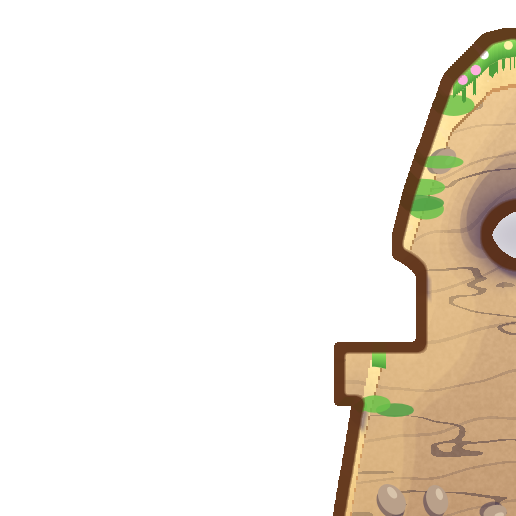
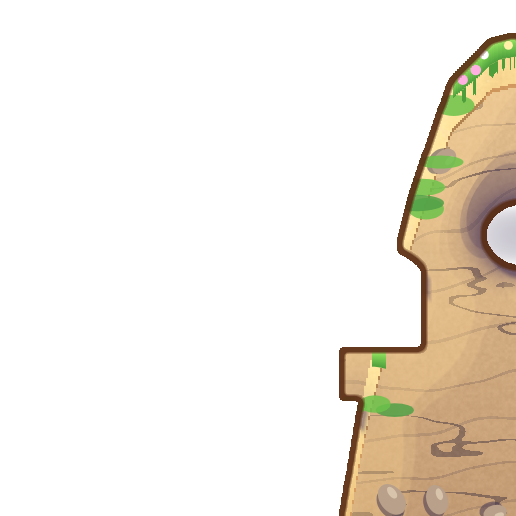
Fase 2 (Mappa): arte della Cala v3 rifinita nel gioco, Prologo con le sue tessere HD
- tessere HD con lo sbordo di 3 px del quadro (1,5 di mondo) invece di 8: lo shader mostra il quadro anche fuori
  dalla maschera, e il disegno si vedeva 4,5 px più grande della forma (piedi dei pirati affondati nell'erba);
  scripts/mappe/guida-sagoma.py lo misura: ora 2 px, limite 3;
- medio.webp: gli scogli alti tagliati dritti in cima alla striscia facevano una riga orizzontale dietro l'isola;
  scripts/mappe/sfuma-medio.py dà loro una cima irregolare che sfuma;
- Prologo v3: arte 'cala-pappagallo-v3' e arteHd 'hd-prologo' (DatiMappaFatta.arteHd, passato da mappaFatta);
  scena-battaglia passa mappa.arteHd a TerrenoHd.carica (prima caricava sempre hd/).

Claude-Session: https://claude.ai/code/session_01JsJehBADe4vUHpeezfCpuZ

diff --git a/scripts/mappe/costruisci-v3.ts b/scripts/mappe/costruisci-v3.ts
@@ -189,7 +189,9 @@ const intestazione = (script: string) => `// GENERATO da scripts/mappe/${script}
   }
   console.log(`${ID}:`, JSON.stringify({ spawn, appigli: appigli.length, nemicoPiuVicino: Math.round(Math.min(...spawn[0].flatMap((p) => spawn[1].map((n) => Math.hypot(n.x - p.x, n.y - p.y))))) }));
   writeFileSync(`src/battaglia/mappe/${ID}.dati.ts`, `${intestazione('costruisci-v3.ts')}export const DATI: DatiMappaFatta = ${JSON.stringify({
-    id: ID, nome: 'Cala Pappagallo (Prologo)', bioma: 'isola', mare: MARE, w: W, h: H, arte: conArte ? ID : undefined,
+    // arte: la cartella della mappa di battaglia, con le sue tessere HD solo dove la sagoma cambia (hd-prologo)
+    id: ID, nome: 'Cala Pappagallo (Prologo)', bioma: 'isola', mare: MARE, w: W, h: H,
+    arte: conArte ? 'cala-pappagallo-v3' : undefined, arteHd: conArte ? 'hd-prologo' : undefined,
     copione: true, spawn, barili: [], appigli, segnaposti, decorazioni: deco, sostegni: SOSTEGNI, strutture: perIDati(strutture), maschera: codificaMaschera(m),
   }, null, 1)};\n`);
   scriviMateriali(ID, m, tag, pezzo);

diff --git a/tests/mappe/cala-v3.test.ts b/tests/mappe/cala-v3.test.ts
@@ -145,6 +145,9 @@ describe('Cala Pappagallo v3', () => {
       expect(c >= 0 && c < 8 && r >= 0 && r < 4, n).toBe(true);
       expect(existsSync(`${cartella}/hd/${n}.webp`), n).toBe(true);
     }
+    // il Prologo usa la cartella della mappa di battaglia, con le sue tessere (Render legge arteHd)
+    expect([mappaFatta(BASE)!.arte, mappaFatta(BASE)!.arteHd]).toEqual(['cala-pappagallo-v3', undefined]);
+    expect([mappaFatta(PROLOGO)!.arte, mappaFatta(PROLOGO)!.arteHd]).toEqual(['cala-pappagallo-v3', 'hd-prologo']);
     const pr = JSON.parse(readFileSync(`${cartella}/hd-prologo/indice.json`, 'utf8'));
     expect(pr.base).toBe('hd');
     expect(pr.tessere.length).toBeLessThan(hd.tessere.length);

diff --git a/src/battaglia/mappe/index.ts b/src/battaglia/mappe/index.ts
@@ -39,6 +39,7 @@ export function mappaFatta(id: string, r?: Pick<RichiestaMappa, 'bioma' | 'varia
     barili: d.barili.map((p) => ({ ...p })),
     ...(d.appigli ? { appigli: d.appigli.map((a) => ({ ...a })) } : {}),
     arte: d.arte,
+    ...(d.arteHd ? { arteHd: d.arteHd } : {}),
     ...(d.sostegni ? { sostegni: d.sostegni.map((r) => ({ ...r })) } : {}),
     ...(d.strutture ? { strutture: d.strutture.map((st) => ({ ...st, ...(st.ancoraggi ? { ancoraggi: [{ ...st.ancoraggi[0] }, { ...st.ancoraggi[1] }] as [Rettangolo, Rettangolo] } : {}) })) } : {}),
   };

diff --git a/src/battaglia/render/scena-battaglia.ts b/src/battaglia/render/scena-battaglia.ts
@@ -238,7 +238,7 @@ export class ScenaBattaglia {
     if (mappa.arte) {
       // terreno HD: si carica in parallelo agli sfondi; finché non arriva resta il terreno dipinto sulla CPU
       this.cambiHd = [];
-      void TerrenoHd.carica(mappa.arte, s.terreno, this.terreno.maschera0, renderer).then((hd) => {
+      void TerrenoHd.carica(mappa.arte, s.terreno, this.terreno.maschera0, renderer, mappa.arteHd ?? 'hd').then((hd) => {
         const cambi = this.cambiHd ?? [];
         this.cambiHd = null;
         if (!hd) return;

diff --git a/src/battaglia/mappe/tipi.ts b/src/battaglia/mappe/tipi.ts
@@ -10,6 +10,8 @@ export interface DatiMappaFatta {
   mare: number;
   /** cartella della grafica in public/assets/mappe/ (assente = terreno dipinto con i colori dei materiali) */
   arte?: string;
+  /** Fase 2: sottocartella delle tessere HD dentro `arte` (assente = 'hd'; il Prologo della Cala v3 usa 'hd-prologo') */
+  arteHd?: string;
   /** lato 0 a sinistra, lato 1 a destra; ogni lato dal più interno al più esterno */
   spawn: [Punto[], Punto[]];
   barili: Punto[];

diff --git a/src/battaglia/mappe/cala-pappagallo-v3-prologo.dati.ts b/src/battaglia/mappe/cala-pappagallo-v3-prologo.dati.ts
@@ -8,6 +8,8 @@ export const DATI: DatiMappaFatta = {
  "mare": 950,
  "w": 2048,
  "h": 1024,
+ "arte": "cala-pappagallo-v3",
+ "arteHd": "hd-prologo",
  "copione": true,
  "spawn": [
   [

diff --git a/scripts/mappe/guida-sagoma.py b/scripts/mappe/guida-sagoma.py
@@ -1,0 +1,41 @@
+"""Guida di sagoma (Fase 2): quanto il terreno HD si vede più grande della maschera che si colpisce.
+
+    python3 scripts/mappe/guida-sagoma.py <materiali.png della mappa> <cartella hd> [px di mondo, predefinito 3]
+
+Rimonta le tessere, prende i pixel visibili (alfa >= 128, la parete delle grotte ad alfa 110 non conta) e misura la
+distanza dalla maschera (canale alfa della PNG dei materiali, ingrandita a 2x). Esce con errore se un pixel visibile
+sta oltre il limite. Il contrario (maschera senza disegno) lo controlla già costruisci-v3.ts sul quadro.
+"""
+import json, os, sys
+import numpy as np
+from PIL import Image
+
+materiali, cartella = sys.argv[1], sys.argv[2]
+limite = float(sys.argv[3]) if len(sys.argv) > 3 else 3
+m = np.asarray(Image.open(materiali).convert('RGBA'))[..., 3] >= 128
+m2 = np.repeat(np.repeat(m, 2, 0), 2, 1)
+indice = json.load(open(os.path.join(cartella, 'indice.json')))
+lato, bordo = indice['lato'], indice['bordo']
+vis = np.zeros(m2.shape, bool)
+nomi = list(indice['tessere'])
+if indice.get('base'):
+    base = os.path.join(os.path.dirname(cartella.rstrip('/')), indice['base'])
+    nomi = [(os.path.join(base, n)) for n in json.load(open(os.path.join(base, 'indice.json')))['tessere'] if n not in nomi] + [os.path.join(cartella, n) for n in nomi]
+else:
+    nomi = [os.path.join(cartella, n) for n in nomi]
+for f in nomi:
+    c, r = map(int, os.path.basename(f)[2:].split('-'))
+    a = np.asarray(Image.open(f + '.webp').convert('RGBA'))[bordo:bordo + lato, bordo:bordo + lato, 3]
+    vis[r * lato:(r + 1) * lato, c * lato:(c + 1) * lato] = a >= 128
+# distanza (in px HD, a passi di 8 vicini) di ogni pixel visibile dalla maschera
+dil, passi, fuori = m2.copy(), 0, vis & ~m2
+peggio = 0
+while fuori.any() and passi < 40:
+    passi += 1
+    p = np.pad(dil, 1)
+    dil = dil | p[:-2, 1:-1] | p[2:, 1:-1] | p[1:-1, :-2] | p[1:-1, 2:] | p[:-2, :-2] | p[:-2, 2:] | p[2:, :-2] | p[2:, 2:]
+    if (fuori & dil).any(): peggio = passi
+    fuori = fuori & ~dil
+print(f'{cartella}: il disegno sborda al massimo {peggio / 2} px di mondo oltre la maschera (limite {limite})')
+if peggio / 2 > limite or fuori.any():
+    sys.exit(1)

diff --git a/scripts/mappe/sfuma-medio.py b/scripts/mappe/sfuma-medio.py
@@ -1,0 +1,37 @@
+"""Toglie il taglio dritto in cima alla striscia `medio.webp` (scogli alti che toccano il bordo dell'immagine).
+
+    python3 scripts/mappe/sfuma-medio.py public/assets/mappe/<id>/medio.webp
+
+Nelle colonne dove lo scoglio arriva alle prime 12 righe (più 24 px attorno) la cima diventa irregolare e sfuma in
+30 px: nel gioco la striscia non mostra più una riga orizzontale dove finisce. Il resto della striscia non cambia.
+"""
+import math
+import sys
+
+from PIL import Image
+
+f = sys.argv[1]
+im = Image.open(f).convert('RGBA')
+w, h = im.size
+px = im.load()
+alti = [any(px[x, y][3] > 40 for y in range(0, 12)) for x in range(w)]
+# colonne vicine (±24 px, con il giro: la striscia si ripete) a uno scoglio tagliato
+vicino = [any(alti[(x + d) % w] for d in range(-24, 25, 4)) for x in range(w)]
+cambiati = 0
+for x in range(w):
+    if not vicino[x]:
+        continue
+    # cima irregolare: 27-57 px sotto il bordo, due onde lente (periodo multiplo della larghezza: la striscia si ripete)
+    t = 42 + 10 * math.sin(2 * math.pi * x * 7 / w) + 5 * math.sin(2 * math.pi * x * 23 / w + 1.3)
+    for y in range(0, min(h, int(t) + 1)):
+        r, g, b, a = px[x, y]
+        if a == 0:
+            continue
+        k = max(0.0, min(1.0, (y - t) / 30 + 1))
+        k = k * k * (3 - 2 * k)
+        na = int(round(a * k))
+        if na != a:
+            px[x, y] = (r, g, b, na) if na else (0, 0, 0, 0)
+            cambiati += 1
+im.save(f, lossless=True, method=6)
+print(f, 'colonne sfumate', sum(vicino), 'pixel cambiati', cambiati)

diff --git a/scripts/mappe/tessere-hd.py b/scripts/mappe/tessere-hd.py
@@ -7,8 +7,11 @@
 Scrive public/assets/mappe/<id>/hd/t-<colonna>-<riga>.webp e hd/indice.json:
 - 8x4 tessere, contenuto 512x512 con 2 px di margine per lato (file 516x516, contenuto da (2,2)); sul bordo del
   mondo si ripete l'ultimo pixel;
-- l'arte sborda: oltre la sagoma il colore del pieno vicino si allarga, ad alfa 255, per 8 px del quadro HD
-  (4 px di mondo); più in là resta il quadro com'è (trasparente, o la parete in fondo alle grotte ad alfa 110);
+- l'arte sborda: oltre la sagoma il colore del pieno vicino si allarga, ad alfa 255, per 3 px del quadro HD
+  (1,5 px di mondo: copre il bordo liscio della maschera filtrata nello shader); più in là resta il quadro com'è
+  (trasparente, o la parete in fondo alle grotte ad alfa 110). Lo shader mostra il quadro anche fuori dalla
+  maschera, quindi lo sbordo è quanto il disegno si vede più grande della forma che si colpisce: Fase 2, al
+  massimo 3 px di mondo (con 8 px HD erano 4, e i piedi dei pirati sembravano affondare nell'erba);
 - WebP senza perdita; nell'indice solo le tessere non vuote.
 Con la variante (per esempio il Prologo) scrive in public/assets/mappe/<id>/<cartella-variante>/ solo le tessere
 che cambiano rispetto alla mappa base, anche quelle che nella variante diventano vuote (file trasparente), e il suo
@@ -19,7 +22,7 @@ import json, os, sys
 import numpy as np
 from PIL import Image
 
-W, H, LATO, BORDO, COLONNE, RIGHE, SBORDO = 4096, 2048, 512, 2, 8, 4, 8
+W, H, LATO, BORDO, COLONNE, RIGHE, SBORDO = 4096, 2048, 512, 2, 8, 4, 3
 
 
 def sborda(rgba):

diff --git a/src/battaglia/mappe/README.md b/src/battaglia/mappe/README.md
@@ -61,13 +61,19 @@ loro cengia, partenze fuori dalle zone di caduta.
 CHROMIUM=/opt/pw-browsers/chromium node scripts/mappe/dipingi/esegui.cjs /tmp/claude-0/cala-pappagallo-v3-materiali.png <cartella> 2
 CHROMIUM=/opt/pw-browsers/chromium node scripts/mappe/dipingi/esegui.cjs /tmp/claude-0/cala-pappagallo-v3-prologo-materiali.png <cartella> 2 terreno-prologo
 python3 scripts/mappe/tessere-hd.py <cartella>/terreno@2x.png cala-pappagallo-v3 <cartella>/terreno-prologo@2x.png hd-prologo
+python3 scripts/mappe/guida-sagoma.py /tmp/claude-0/cala-pappagallo-v3-materiali.png public/assets/mappe/cala-pappagallo-v3/hd
+python3 scripts/mappe/guida-sagoma.py /tmp/claude-0/cala-pappagallo-v3-prologo-materiali.png public/assets/mappe/cala-pappagallo-v3/hd-prologo
 ```
 
 Esce `public/assets/mappe/cala-pappagallo-v3/hd/`: tessere `t-<colonna>-<riga>.webp` (8×4, contenuto 512×512 con 2 px di
 margine, file 516×516, WebP senza perdita) e `indice.json` con le sole tessere non vuote (`tessere: ["t-3-1", ...]`).
-L'arte sborda a colore pieno per 8 px del quadro HD (4 px di mondo) oltre la sagoma; più in là resta il quadro com'è:
+L'arte sborda a colore pieno per 3 px del quadro HD (1,5 px di mondo) oltre la sagoma; più in là resta il quadro com'è:
 trasparente, oppure la parete in fondo a grotte e arco (alfa ≤ 110). `hd-prologo/` ha le sole tessere dove la sagoma del
 Prologo cambia (molo e torre al posto del relitto, Nidi e cima della Rocca senza le spianate dei barili) e un
 `indice.json` con `base: "hd"`. In HD il pittore fa la sagoma più liscia (maschera sfocata di 1 px di mondo prima di
 ingrandirla), il contorno marrone caldo dentro il bordo, toni a gradini, ombre portate dipinte sotto tetti, balconi,
 ponti e arco, e la parete in fondo solo nelle grotte vere (raggi in 8 direzioni), sfumata verso le bocche.
+Lo shader di Render mostra il quadro anche fuori dalla maschera: lo sbordo è quanto il disegno si vede più grande della
+forma che si colpisce. `guida-sagoma.py` lo misura sulle tessere (oggi 2 px di mondo, limite della Fase 2: 3).
+Il Prologo usa la stessa cartella: nei dati `arte: 'cala-pappagallo-v3'` e `arteHd: 'hd-prologo'`. La striscia
+`medio.webp` (copiata dalla v2) aveva scogli tagliati dritti in cima: `sfuma-medio.py` li sfuma.
